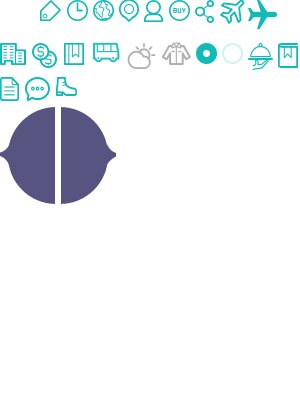
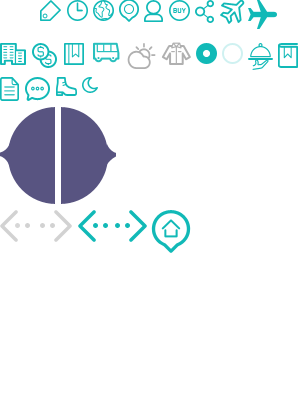
修改真旅行 产品详情页

Changed region(s): [[0.39, 0.51, 0.63, 0.63], [0.0, 0.51, 0.36, 0.6], [0.27, 0.18, 0.33, 0.24]]

diff --git a/真旅行/产品信息/产品详情.html b/真旅行/产品信息/产品详情.html
@@ -30,7 +30,12 @@
 <body data-spy="scroll" data-target="#navbar" data-offset="75">
 	<header>
 		<div class="head clearfix">
-			<div class="logo"></div>
+			<!--<div class="logo"></div>-->
+            <div class="headIconContent clearfix">
+                <a href="javascript:void(0);" class="commonIcon headLeftArrowIcon pull-left"></a>
+                <span class="commonIcon headMiddleIcon pull-left"></span>
+                <a href="javascript:void(0);" class="commonIcon headRightArrowIcon pull-right"></a>
+            </div>
 		</div>
 	</header>
 
@@ -211,7 +216,7 @@
             <div class="productFixedContent">
                 <div id="navbar" class="fixedList-container">
                     <ul class="nav fixedList clearfix">
-                        <li class="active">
+                        <li>
                             <a href="#airInfo">航班信息</a>
                         </li>
                         <li>
@@ -263,7 +268,7 @@
                             </div>
                         </li>
                         <li class="shippingSpaceInfo">
-                            <div class="lightBlue18Fonts">K 6999 / 头等舱 / 波音787</div>
+                            <div class="lightBlue16Fonts">K 6999 / 头等舱 / 波音787</div>
                             <div class="airLogo">
                                 <span class="pubFlights_MU verticalAlignMiddle"></span>
                                 <span class="color9f9f9fFonts">吴哥航空</span>
@@ -295,7 +300,7 @@
                             </div>
                         </li>
                         <li class="shippingSpaceInfo">
-                            <div class="lightBlue18Fonts">K 6999 / 头等舱 / 波音787</div>
+                            <div class="lightBlue16Fonts">K 6999 / 头等舱 / 波音787</div>
                             <div class="airLogo">
                                 <span class="pubFlights_MU verticalAlignMiddle"></span>
                                 <span class="color9f9f9fFonts">吴哥航空</span>
@@ -327,7 +332,7 @@
                             </div>
                         </li>
                         <li class="shippingSpaceInfo">
-                            <div class="lightBlue18Fonts">K 6999 / 头等舱 / 波音787</div>
+                            <div class="lightBlue16Fonts">K 6999 / 头等舱 / 波音787</div>
                             <div class="airLogo">
                                 <span class="pubFlights_MU verticalAlignMiddle"></span>
                                 <span class="color9f9f9fFonts">吴哥航空</span>
@@ -359,7 +364,7 @@
                             </div>
                         </li>
                         <li class="shippingSpaceInfo">
-                            <div class="lightBlue18Fonts">K 6999 / 头等舱 / 波音787</div>
+                            <div class="lightBlue16Fonts">K 6999 / 头等舱 / 波音787</div>
                             <div class="airLogo">
                                 <span class="pubFlights_MU verticalAlignMiddle"></span>
                                 <span class="color9f9f9fFonts">吴哥航空</span>
@@ -373,7 +378,17 @@
                     <div class="commonTitle noBorder"><i class="commonIcon hotelIcon"></i>酒店信息</div>
                     <div class="hotelInfoModel clearfix">
                         <div class="leftHotelImg">
-                            <h3 class="hotelTittle">吴哥奇迹温泉度假酒店  Angkor Miracle Resort & Spa</h3>
+                            <div class="hotelTitleModel clearfix">
+                                <h3 class="hotelTittle" title="吴哥奇迹温泉度假酒店  Angkor Miracle Resort & Spa">吴哥奇迹温泉度假酒店  Angkor Miracle Resort & Spa</h3>
+                                <div class="nightsContent">
+                                    <span class="commonIcon moonIcon"></span>
+                                    <span>
+                                        第
+                                        <span class="blueFonts">1<span class="fontSize5">●</span>3<span class="fontSize5">●</span>5 </span>
+                                        晚
+                                    </span>
+                                </div>
+                            </div>
                             <div class="hotelBigImg">
                                 <img src="../../images/client/detailHotelImg01.jpg">
                             </div>
@@ -396,7 +411,7 @@
                             </ul>
                         </div>
                         <div class="rightHotelTabs">
-                            <div class="common-tab-bar hotel-info-tab" style="width:355px;">
+                            <!--<div class="common-tab-bar hotel-info-tab" style="width:355px;">
                                 <div class="tab-top"></div>
                                 <ul class="common-tab clearfix">
                                     <li class="placement"></li>
@@ -408,7 +423,12 @@
                                     <li class="placement"></li>
                                     <li class="rest"></li>
                                 </ul>
-                            </div>
+                            </div>-->
+                            <ul class="hotel-info-tab clearfix">
+                                <li class="current">基本信息</li>
+                                <li>酒店设施</li>
+                                <li>入住须知</li>
+                            </ul>
                             <div class="tab-cont-block">
                                 <div class="tab-cont listInfo">
                                     <table class="hotelTabList">
@@ -1883,10 +1903,12 @@
 
         // $(".tab-cont").hide();
         $(".tab-cont").eq(0).show();
-        $(".hotel-info-tab .tab-item").each(function(index){
+        $(".hotel-info-tab li").each(function(index){
             $(this).click(function(){
                 $(".tab-cont").hide();
                 $(".tab-cont").eq(index).show();
+                $(".hotel-info-tab li").removeClass("current");
+                $(this).addClass("current");
             });
         });
 

diff --git a/css/client/productInfo.css b/css/client/productInfo.css
@@ -196,7 +196,7 @@
     line-height: 60px;
     text-align: center;
     font-size: 17px;
-    color: #11b9b7;
+    color: #616161;
     border-left: 1px solid #d6efef;
     border-radius: 3px;
     -webkit-border-radius: 3px;
@@ -680,10 +680,16 @@
     text-align: center;
     line-height: 25px;
 }
-.airInfoList .lightBlue18Fonts{
-    font-size: 18px;
+.airInfoList .lightBlue18Fonts,
+.airInfoList .lightBlue16Fonts{
     color: #11b9b7;
     margin-bottom: 7px;
+}
+.airInfoList .lightBlue18Fonts{
+    font-size: 18px;
+}
+.airInfoList .lightBlue16Fonts{
+    font-size: 16px;
 }
 .leftGoBack .goBackCommonStyle{
     display: inline-block;
@@ -698,7 +704,7 @@
     -moz-border-radius: 4px;
 }
 .leftGoBack .goBackCommonStyle.greenBg{
-    background-color: #0fd730;
+    background-color: #1adc87;
 }
 .leftGoBack .goBackCommonStyle.blueBg{
     background-color: #11b9b7;
@@ -719,6 +725,7 @@
     margin-bottom: 5px;
 }
 .timePlaceFonts .placeFonts{
+    font-weight: normal;
     color: #11b9b7;
 }
 .timePlaceFonts .timeFonts{
@@ -754,13 +761,41 @@
     float: left;
     width: 760px;
 }
-.leftHotelImg .hotelTittle{
-    font-size: 20px;
+.leftHotelImg .hotelTitleModel{
+    position: relative;
+    border-top: 1px solid #dcf5f4;
     color: #616161;
-    padding: 15px 0 0;
+}
+.leftHotelImg .hotelTittle{
+    width: 80%;
+    font-size: 20px;
+    padding: 10px 0 0;
     margin-top: 10px;
     margin-bottom: 15px;
-    border-top: 1px solid #dcf5f4;
+    overflow: hidden;
+    white-space: nowrap;
+    text-overflow: ellipsis;
+}
+.hotelTitleModel .nightsContent{
+    font-size: 15px;
+    padding: 5px 0 5px 10px;
+    border-left: 1px solid #e5e5e5;
+    position: absolute;
+    top: 15px;
+    right: 2%;
+}
+.nightsContent .fontSize5{
+    display: inline-block;
+    font-size: 5px;
+    -webkit-transform: scale(0.3);
+    margin: 0 3px;
+    vertical-align: middle;
+}
+.nightsContent .moonIcon{
+    width: 16px;
+    height: 16px;
+    background-position: -82px -77px;
+    margin: 0 5px;
 }
 .leftHotelImg .hotelBigImg img{
     width: 758px;
@@ -790,6 +825,31 @@
 .hotelInfoModel .rightHotelTabs{
     float: right;
     width: 360px;
+}
+.rightHotelTabs .hotel-info-tab{
+    margin: 0;
+    border-bottom: 1px solid #d4efee;
+}
+.hotel-info-tab li{
+    float: left;
+    width: 120px;
+    text-align: center;
+    height: 57px;
+    line-height: 57px;
+    color: #616161;
+    background-color: #edf5f5;
+    border-left: 1px solid #d4efee;
+    border-radius: 2px;
+    -webkit-border-radius: 2px;
+    -moz-border-radius: 2px;
+    cursor: pointer;
+}
+.hotel-info-tab li:first-child{
+    border-left: none;
+}
+.hotel-info-tab li.current{
+    color: #fff;
+    background-color: #11b9b7;
 }
 .rightHotelTabs .tab-cont {
     background-color: #f9f9f9;
@@ -867,6 +927,38 @@
 .hotel-notes .hotelTabList .verticalAlignTop{
     vertical-align: top;
     padding-top: 0;
+}
+
+.headIconContent{
+    padding: 10px 0;
+}
+.headIconContent .commonIcon{
+    display: inline-block;
+    background: url("../../images/client/productInfoIcon.png") no-repeat;
+    vertical-align: middle;
+    margin-right: 10px;
+}
+.headIconContent .headLeftArrowIcon{
+    width: 32px;
+    height: 32px;
+    background-position: 0 -210px;
+}
+.headIconContent .headLeftArrowIcon:hover{
+    background-position: -78px -210px;
+}
+.headIconContent .headMiddleIcon{
+    width: 40px;
+    height: 43px;
+    background-position: -150px -210px;
+    margin: -5px 0 0 500px;
+}
+.headIconContent .headRightArrowIcon{
+    width: 32px;
+    height: 32px;
+    background-position: -40px -210px;
+}
+.headIconContent .headRightArrowIcon:hover{
+    background-position: -115px -210px;
 }
 
 /*  tab 切换样式 S */
